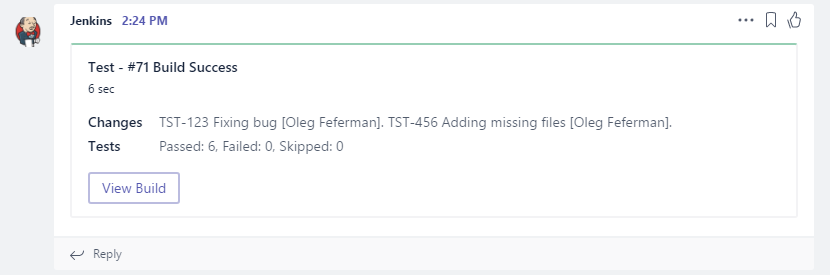
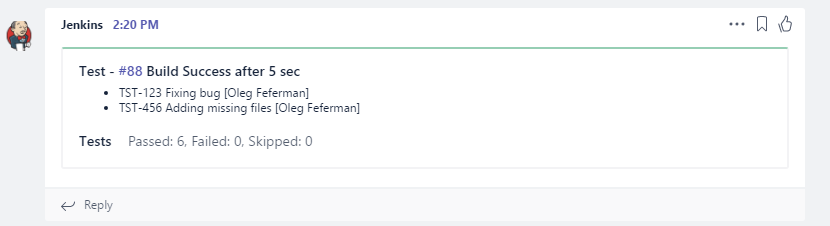
* "View build" button removed, instead build number in header is a hyperlink now * Moving list of changes into subheader and making it look like a list * Moving build time into header from subheader * Minor message format changes

diff --git a/src/main/java/jenkins/plugins/office365connector/Office365ConnectorWebhookNotifier.java b/src/main/java/jenkins/plugins/office365connector/Office365ConnectorWebhookNotifier.java
@@ -44,6 +44,7 @@ import jenkins.plugins.office365connector.model.Section;
 import jenkins.plugins.office365connector.workflow.StepParameters;
 import org.apache.commons.lang.StringUtils;
 import jenkins.plugins.office365connector.utils.Parser;
+import org.jenkinsci.plugins.displayurlapi.DisplayURLProvider;
 
 /**
  * @author srhebbar
@@ -164,8 +165,9 @@ public final class Office365ConnectorWebhookNotifier {
             {
                 fileCount = affectedFiles.size();
             }
-            activityTitle = jobName + " - #" + run.getNumber() + " Started";
-            activitySubtitle = "by changes from " + parser.getAuthor(run.getCauses()) + " (" + fileCount + ") " + " file(s) changed";
+            String uri = DisplayURLProvider.get().getRunURL(run);
+            activityTitle = jobName + " - <a href=\"" + uri + "\">#" + run.getNumber() + "</a> Started";
+            activitySubtitle = "by " + parser.getAuthor(run.getCauses()) + " (" + fileCount + " file(s) changed)";
         } else {
             factsBuilder.addStatusStarted();
             factsBuilder.addStartTime();
@@ -180,8 +182,9 @@ public final class Office365ConnectorWebhookNotifier {
 
         String summary = jobName + ": Build #" + run.getNumber() + " Started";
         Card card = new Card(summary, sectionList);
-        card.setPotentialAction(potentialActionBuilder.buildActionable());
-
+        if (!isCompactNotification()) {
+            card.setPotentialAction(potentialActionBuilder.buildActionable());    
+        }
         return card;
     }
 
@@ -264,9 +267,9 @@ public final class Office365ConnectorWebhookNotifier {
         Section section = null;
 
         if (isCompactNotification()) {
-            activityTitle = jobName + " - #" + run.getNumber() + " " + status;
-            activitySubtitle = factsBuilder.getBuildDuration();
-            factsBuilder.addChanges(changesSingleString);
+            String uri = DisplayURLProvider.get().getRunURL(run);
+            activityTitle = jobName + " - <a href=\"" + uri + "\">#" + run.getNumber() + "</a> " + status + " after "+ factsBuilder.getBuildDuration();
+            activitySubtitle = changesSingleString;
             factsBuilder.addTestsCompact();
             section = new Section(activityTitle, activitySubtitle, factsBuilder.collectCompact());            
         } else {
@@ -285,7 +288,9 @@ public final class Office365ConnectorWebhookNotifier {
         } else {
             card.setThemeColor("FFCC5C");
         }
-        card.setPotentialAction(potentialActionBuilder.buildActionable());
+        if (!isCompactNotification()) {
+            card.setPotentialAction(potentialActionBuilder.buildActionable());
+        }
 
         return card;
     }
@@ -369,6 +374,8 @@ public final class Office365ConnectorWebhookNotifier {
                 factsBuilder.addNumberOfFilesChanged(affectedFiles.size());    
             }
         }
+        if (StringUtils.isEmpty(changesSingleString))
+            changesSingleString = getChangesAsOneString(null);
     }
 
     private String getAuthorsString(Set<User> authors) {
@@ -385,16 +392,20 @@ public final class Office365ConnectorWebhookNotifier {
     private String getChangesAsOneString(ArrayList<String> changes) {       
 
         if (changes != null) {
-            StringBuilder changedFiles = new StringBuilder();
-            for (String change : changes) {
-                changedFiles.append(change + ". ");
+            if (changes.size() > 0)
+            {
+                StringBuilder changedFiles = new StringBuilder();
+                changedFiles.append("<ul>");
+                for (String change : changes) {
+                    changedFiles.append("<li>");
+                    changedFiles.append(change);
+                    changedFiles.append("</li>");
+                }
+                changedFiles.append("</ul>");
+                return changedFiles.toString();    
             }
-            return changedFiles.toString();
         } 
-        else 
-        {
-            return "No changes";
-        }
+        return "No changes";
     }
 
     private Collection<? extends ChangeLogSet.AffectedFile> getAffectedFiles(ChangeLogSet.Entry entry) {
